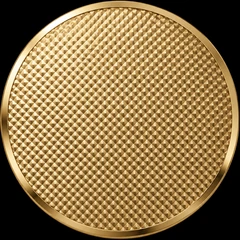
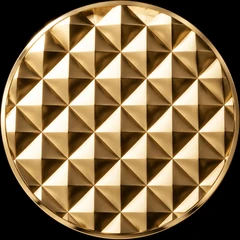
Solid panel swatches: bold large-scale clous de Paris and chevron, readable at 56px

diff --git a/zodiac-duo.js b/zodiac-duo.js
@@ -24,7 +24,7 @@
 
   var SCRIPT_SRC = (document.currentScript && document.currentScript.src) || "";
   var ASSETS = CFG.assets || SCRIPT_SRC.replace(/[^/]*$/, "") + "assets";
-  var AV = "?v=m13"; // версия ассетов (медальоны v2) — сброс кэша слоёв и свотчей
+  var AV = "?v=m14"; // версия ассетов (медальоны v2) — сброс кэша слоёв и свотчей
   var M = window.ZD_MANIFEST;
   var CANVAS_W = 1792, CANVAS_H = 2400;
   // Видимая область сцены: телефон без пустых полей холста PSD (телефон занимает 346–1445 × 408–1966)

diff --git a/index.html b/index.html
@@ -238,7 +238,7 @@
     };
   </script>
   <script src="assets/manifest.js?v=20261011r"></script>
-  <script src="zodiac-duo.js?v=20261014cu"></script>
+  <script src="zodiac-duo.js?v=20261014mo"></script>
   <script src="landing/landing.js?v=15"></script>
   <script type="importmap">
     { "imports": {

diff --git a/demo.html b/demo.html
@@ -40,6 +40,6 @@
     };
   </script>
   <script src="assets/manifest.js?v=20261011r"></script>
-  <script src="zodiac-duo.js?v=20261014cu"></script>
+  <script src="zodiac-duo.js?v=20261014mo"></script>
 </body>
 </html>
